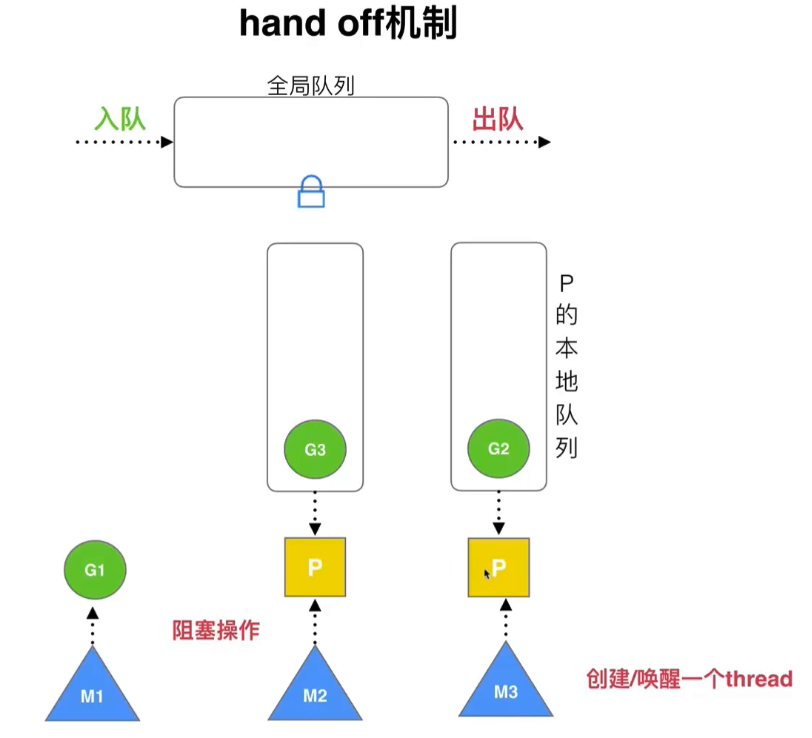
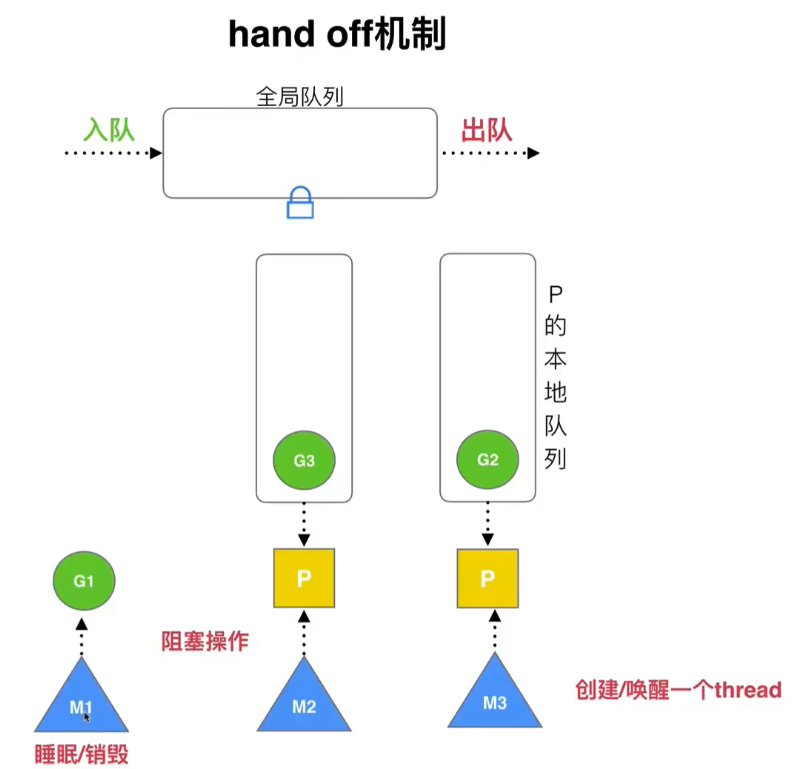
modified README

diff --git a/liudanbing/14-goroutine/README.md b/liudanbing/14-goroutine/README.md
@@ -72,10 +72,14 @@ GMP模型：
     在途中，M1在处理G1，而P1后面还有两个G，同时M2是空闲状态；此时M2就从M1中偷取一个G3  
     - hand off机制  
     ![hand off](./imgs/18.png)  
-    此时M1在执行的G1阻塞了，此时cpu就在等待中；那么就创建/唤醒一个线程M3，P1和M3进行绑定  
-- 利用并行
-- 抢占
+    此时M1在执行的G1阻塞了，此时cpu就在等待中；那么就创建/唤醒一个线程M3，P1和M3进行绑定；同时此时的M1在睡眠，当G1阻塞结束后，如果还需要继续执行，会加入到其他队列中，M1要么睡眠要么销毁。  
+- 利用并行：通过GOMAXPROCS来限定P的个数 = cpu核数/2
+- 抢占  
+    ![抢占](./imgs/19.png)  
+    - 以前的co-routine：只有当co-routine主动释放cpu，那么别的co-routine才能使用  
+    - goroutine：每个G最多运行10ms，到了10ms新的G直接抢占cpu  
 - 全局G队列
-
+    - 全局队列有入队和出队，同时还有一个锁的保护
+    - 和work stealing机制类似，当M2没有G运行时，它会先去M1那里偷，如果M1也没有，那么会去全局队列偷，但是这里有一个获取锁和解锁的过程，会慢一点。
 
 
